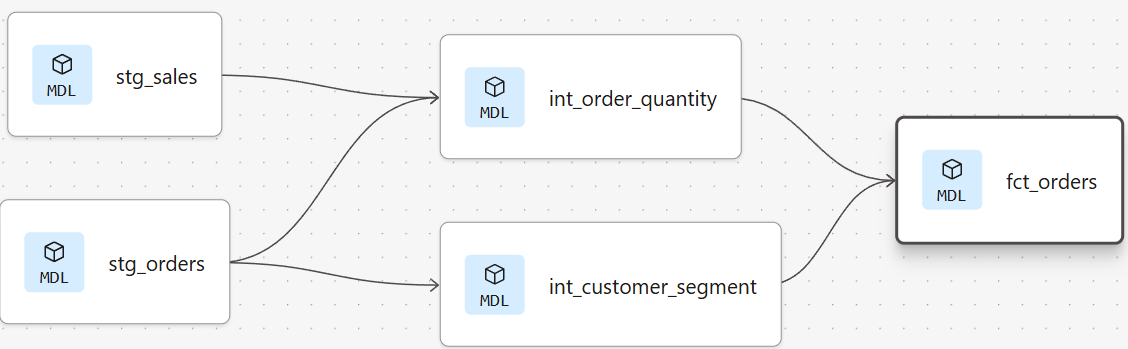
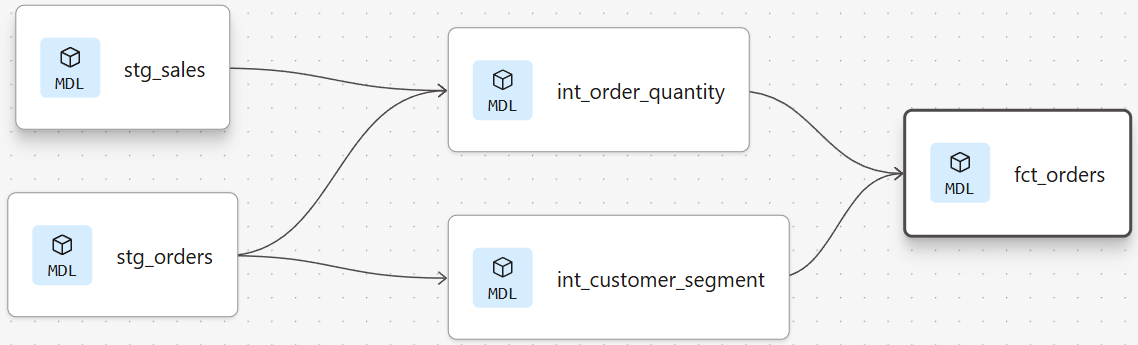
updating readme.md

diff --git a/README.md b/README.md
@@ -69,7 +69,10 @@ Final analytical tables are exposed through:<br>
 
 and have the following lineages:
 
+fct_orders:
 ![fct_orders](images/fct_orders_lineage.png)
+
+fct_sales:
 ![fct_sales](images/fct_sales_lineage.png)
 
 These marts are optimized for BI consumption and are designed to support:<br>